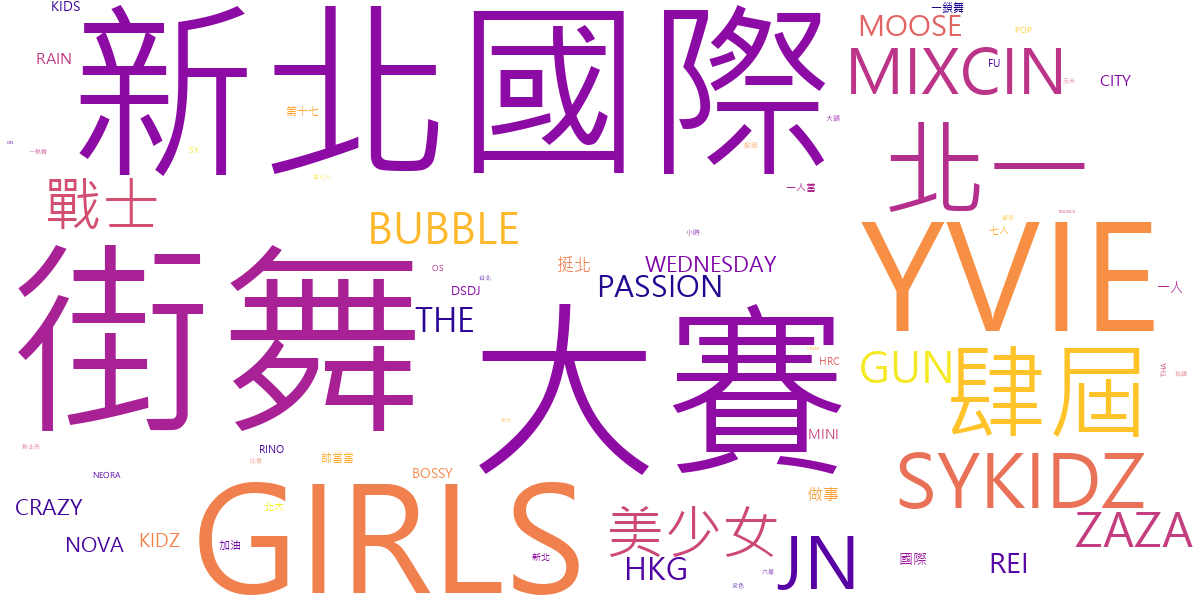
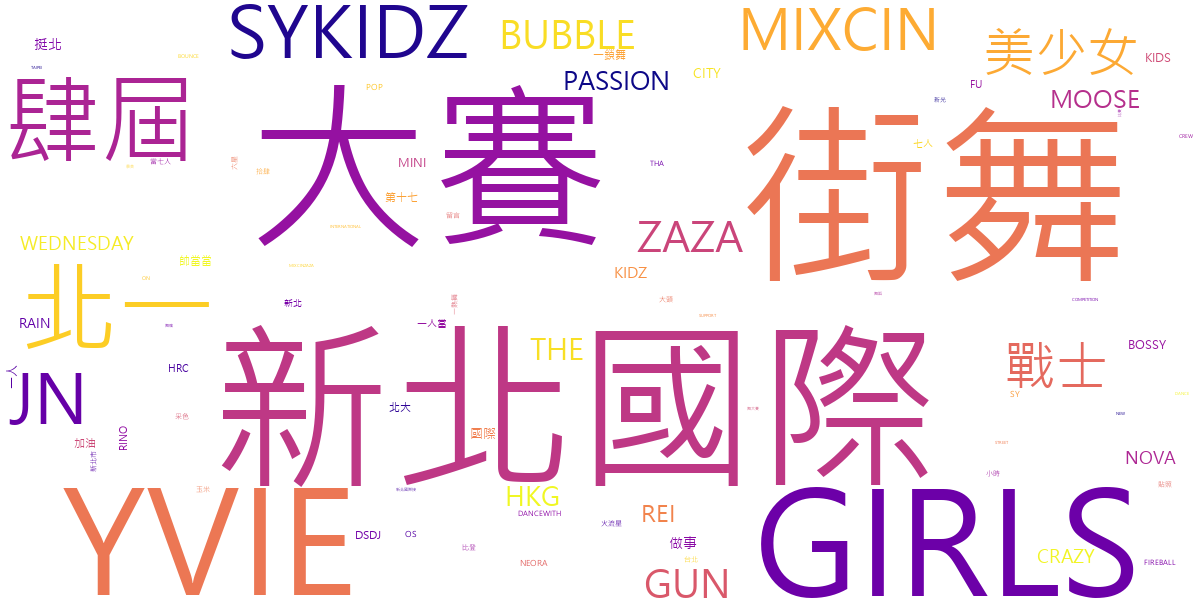
Refresh Pages report with comments through 2026-07-26 07:00.

diff --git a/docs/index.html b/docs/index.html
@@ -11,11 +11,11 @@
 <main class="container pb-5">
  <h2 class="h4 mb-3">基本統計</h2><div class="row g-3 mb-4">
  
- <div class="col-6 col-lg-3"><div class="card p-3"><small class="text-muted">總留言數</small><strong class="fs-3">152460</strong></div></div>
- <div class="col-6 col-lg-3"><div class="card p-3"><small class="text-muted">唯一留言者</small><strong class="fs-3">1239</strong></div></div>
- <div class="col-6 col-lg-3"><div class="card p-3"><small class="text-muted">平均留言長度</small><strong class="fs-3">25.18</strong></div></div>
- <div class="col-6 col-lg-3"><div class="card p-3"><small class="text-muted">應援留言數</small><strong class="fs-3">152580</strong></div></div>
- </div><p>留言最多的人：<strong>hsinhuachung</strong>｜應援隊伍數：<strong>78</strong></p>
+ <div class="col-6 col-lg-3"><div class="card p-3"><small class="text-muted">總留言數</small><strong class="fs-3">179474</strong></div></div>
+ <div class="col-6 col-lg-3"><div class="card p-3"><small class="text-muted">唯一留言者</small><strong class="fs-3">1303</strong></div></div>
+ <div class="col-6 col-lg-3"><div class="card p-3"><small class="text-muted">平均留言長度</small><strong class="fs-3">25.3</strong></div></div>
+ <div class="col-6 col-lg-3"><div class="card p-3"><small class="text-muted">應援留言數</small><strong class="fs-3">179588</strong></div></div>
+ </div><p>留言最多的人：<strong>y.v_amy</strong>｜應援隊伍數：<strong>90</strong></p>
 
  <div class="row g-4 mb-4">
   <div class="col-12 col-lg-6"><div class="card p-3"><h2 class="h5">應援隊伍排行</h2><img class="chart" src="assets/team_votes.png" alt="應援隊伍排行"></div></div>
@@ -23,8 +23,8 @@
  </div>
 
  <div class="row g-4 mb-4">
-  <div class="col-12 col-lg-6"><div class="card p-3"><h2 class="h5">Top 20 應援隊伍</h2><table class="table"><thead><tr><th>隊伍</th><th>票數</th></tr></thead><tbody><tr><td>YVIE GIRLS</td><td>76607</td></tr><tr><td>北一街舞貳拾肆屆</td><td>33862</td></tr><tr><td>SYKIDZ JN</td><td>12623</td></tr><tr><td>美少女戰士</td><td>8352</td></tr><tr><td>MIXCIN ZAZA</td><td>4628</td></tr><tr><td>BUBBLE GUN</td><td>4019</td></tr><tr><td>THE MIXCIN</td><td>2030</td></tr><tr><td>HKG</td><td>1731</td></tr><tr><td>MIXCIN PASSION</td><td>1585</td></tr><tr><td>MOOSE</td><td>1486</td></tr><tr><td>SYKIDZ REI</td><td>1245</td></tr><tr><td>CRAZY WEDNESDAY</td><td>783</td></tr><tr><td>MIXCIN NOVA</td><td>456</td></tr><tr><td>RAIN CITY KIDZ</td><td>432</td></tr><tr><td>MIXCIN BOSSY</td><td>300</td></tr><tr><td>MINI DSDJ</td><td>275</td></tr><tr><td>北一鎖舞第十七屆</td><td>236</td></tr><tr><td>MIXCIN NOVA加油</td><td>227</td></tr><tr><td>北一 街舞貳拾肆屆</td><td>193</td></tr><tr><td>北ㄧ街舞貳拾肆屆</td><td>177</td></tr></tbody></table></div></div>
-  <div class="col-12 col-lg-6"><div class="card p-3"><h2 class="h5">Top 20 留言者</h2><table class="table"><tbody><tr><td>hsinhuachung</td><td>16000</td></tr><tr><td>y.v_amy</td><td>13418</td></tr><tr><td>chenchenlinger</td><td>8793</td></tr><tr><td>fu.rino</td><td>6306</td></tr><tr><td>06.angle_</td><td>5566</td></tr><tr><td>cardanfor</td><td>5256</td></tr><tr><td>luvqi57</td><td>4865</td></tr><tr><td>yachun62</td><td>4861</td></tr><tr><td>cwh224</td><td>4676</td></tr><tr><td>y.v_effy</td><td>4650</td></tr><tr><td>red_winnie</td><td>3721</td></tr><tr><td>jone4289</td><td>2888</td></tr><tr><td>y.v_alicialee</td><td>2764</td></tr><tr><td>w._.yiyj</td><td>2332</td></tr><tr><td>abrokenhouse701</td><td>2118</td></tr><tr><td>y.v_fifi</td><td>1561</td></tr><tr><td>tongjing.chen</td><td>1505</td></tr><tr><td>visa_4289</td><td>1505</td></tr><tr><td>327n_atasha</td><td>1491</td></tr><tr><td>meow_meow_meow_iii</td><td>1441</td></tr></tbody></table></div></div>
+  <div class="col-12 col-lg-6"><div class="card p-3"><h2 class="h5">Top 20 應援隊伍</h2><table class="table"><thead><tr><th>隊伍</th><th>票數</th></tr></thead><tbody><tr><td>YVIE GIRLS</td><td>98878</td></tr><tr><td>北一街舞貳拾肆屆</td><td>36230</td></tr><tr><td>SYKIDZ JN</td><td>14843</td></tr><tr><td>美少女戰士</td><td>8352</td></tr><tr><td>MIXCIN ZAZA</td><td>4628</td></tr><tr><td>BUBBLE GUN</td><td>4024</td></tr><tr><td>THE MIXCIN</td><td>2081</td></tr><tr><td>HKG</td><td>1731</td></tr><tr><td>MIXCIN PASSION</td><td>1589</td></tr><tr><td>MOOSE</td><td>1486</td></tr><tr><td>SYKIDZ REI</td><td>1247</td></tr><tr><td>CRAZY WEDNESDAY</td><td>783</td></tr><tr><td>MIXCIN NOVA</td><td>456</td></tr><tr><td>RAIN CITY KIDZ</td><td>432</td></tr><tr><td>MIXCIN BOSSY</td><td>308</td></tr><tr><td>MINI DSDJ</td><td>276</td></tr><tr><td>北一鎖舞第十七屆</td><td>236</td></tr><tr><td>MIXCIN NOVA加油</td><td>227</td></tr><tr><td>北一 街舞貳拾肆屆</td><td>193</td></tr><tr><td>北ㄧ街舞貳拾肆屆</td><td>177</td></tr></tbody></table></div></div>
+  <div class="col-12 col-lg-6"><div class="card p-3"><h2 class="h5">Top 20 留言者</h2><table class="table"><tbody><tr><td>y.v_amy</td><td>18802</td></tr><tr><td>hsinhuachung</td><td>18752</td></tr><tr><td>chenchenlinger</td><td>15096</td></tr><tr><td>fu.rino</td><td>9657</td></tr><tr><td>06.angle_</td><td>6114</td></tr><tr><td>cardanfor</td><td>5897</td></tr><tr><td>red_winnie</td><td>5867</td></tr><tr><td>luvqi57</td><td>5083</td></tr><tr><td>yachun62</td><td>4861</td></tr><tr><td>y.v_effy</td><td>4743</td></tr><tr><td>cwh224</td><td>4676</td></tr><tr><td>jone4289</td><td>3580</td></tr><tr><td>visa_4289</td><td>2863</td></tr><tr><td>y.v_alicialee</td><td>2764</td></tr><tr><td>w._.yiyj</td><td>2332</td></tr><tr><td>abrokenhouse701</td><td>2118</td></tr><tr><td>y.v_fifi</td><td>1895</td></tr><tr><td>theyreeeeeasshole</td><td>1558</td></tr><tr><td>yyachuan</td><td>1538</td></tr><tr><td>tongjing.chen</td><td>1505</td></tr></tbody></table></div></div>
  </div>
 
  <div class="row g-4 mb-4">
@@ -42,6 +42,6 @@
  </div>
 
  <div class="row g-4">
-  <div class="col-12"><div class="card p-3"><h2 class="h5">重複留言（前 20 筆）</h2><table class="table"><thead><tr><th>類型</th><th>留言</th><th>說明</th><th>相似度</th></tr></thead><tbody><tr><td>exact</td><td>2026新北國際街舞大賽 我挺YVIE GIRLS!</td><td>y.v_amy×13386, hsinhuachung×9708, chenchenlinger×8788, y.v_alicialee×2362, fu.rino×2062</td><td>1.0</td></tr><tr><td>exact</td><td>2026新北國際街舞大賽 我挺YVIE GIRLS！</td><td>yachun62×4826, y.v_effy×4590, hsinhuachung×3358, jone4289×2859, 327n_atasha×1490</td><td>1.0</td></tr><tr><td>exact</td><td>2026新北國際街舞大賽，我挺SYKIDZ REI ❤</td><td>feishan33__×2</td><td>1.0</td></tr><tr><td>exact</td><td>2026新北國際街舞大賽 我挺北一街舞貳拾肆屆！</td><td>06.angle_×5536, luvqi57×4851, abrokenhouse701×2093, tongjing.chen×1504, meow_meow_meow_iii×1414</td><td>1.0</td></tr><tr><td>exact</td><td>2026新北國際街舞大賽 我挺北一街舞貳拾肆屆！2026新北國際街舞大賽 我挺北一街舞貳拾肆屆！</td><td>73zs._×33, meow_meow_meow_iii×23, hardto.choose×15, abrokenhouse701×9, eternity_0810_×6</td><td>1.0</td></tr><tr><td>exact</td><td>2026新北國際街舞大賽 我挺北一街舞貳拾肆屆���</td><td>06.angle_×3</td><td>1.0</td></tr><tr><td>exact</td><td>2026新北國際街舞大賽 我挺SYKIDZ JN</td><td>red_winnie×1670, zaq._.1212×290, _12nnnnn_×124, lr._.02_23×83, sa._.0212_×83</td><td>1.0</td></tr><tr><td>exact</td><td>2026新北國際街舞大賽 我挺YVIE GIRLS</td><td>cardanfor×5238, hsinhuachung×1657, y.v_fifi×1339, y.v_alicialee×56, gwc._.0904×39</td><td>1.0</td></tr><tr><td>exact</td><td>2026新北國際街舞大賽 我挺SYKIDZ JN!</td><td>_1cnn.cky×573, luo_zin_ing×325, 77zzzzzz__×168, yyc_.51×160, mimmy.syk×114</td><td>1.0</td></tr><tr><td>exact</td><td>2026新北國際街舞大賽 我挺SYKIDZ REI!</td><td>o.627._.yo×3</td><td>1.0</td></tr><tr><td>exact</td><td>2026新北國際街舞大賽 我挺SYKIDZ REI</td><td>_im.ys2×267, shiao_423×184, _7kzzc×123, celia__xin×77, oogeshon×75</td><td>1.0</td></tr><tr><td>exact</td><td>2026新北國際街舞大賽 我挺YVIE GIRLS! 2026新北國際街舞大賽 我挺YVIE GIRLS!</td><td>hsinhuachung×40</td><td>1.0</td></tr><tr><td>exact</td><td>2026新北國際街舞大賽我挺MIXCIN ZAZA🐆🔱</td><td>candicekang83×248, 09._hanhan×92, 09._.sihan×88, _xin.0604×46, 0824eva_15y×31</td><td>1.0</td></tr><tr><td>exact</td><td>2026新北國際街舞大賽我挺MIXCIN ZAZA🐆</td><td>glitch_06_13×913, hsu_.1129×26, smal.l_jus×21, yshinun×16, cutie.yu_2222×5</td><td>1.0</td></tr><tr><td>exact</td><td>2026 新北國際街舞大賽 我挺 MIXCIN ZAZA❤🔥</td><td>clds._.4683×137</td><td>1.0</td></tr><tr><td>exact</td><td>2026新北國際街舞大賽 我挺 必比登六星⭐</td><td>lynnkang46×20</td><td>1.0</td></tr><tr><td>exact</td><td>2026 新北國際街舞大賽 我挺 MIXCIN ZAZA</td><td>clds._.4683×7</td><td>1.0</td></tr><tr><td>exact</td><td>2026新北國際街舞大賽 我挺THE MIXCIN!!</td><td>tanya_and_cindy_mom×278, chloe0311_×35</td><td>1.0</td></tr><tr><td>exact</td><td>2026 新北國際街舞大賽 我挺 必比登六星🌟</td><td>papa.0401×23, clds._.4683×10, lynnkang46×2</td><td>1.0</td></tr><tr><td>exact</td><td>2026 新北國際街舞大賽 我挺 MIXCIN ZAZA😍🐆</td><td>papa.0401×59</td><td>1.0</td></tr></tbody></table></div></div>
+  <div class="col-12"><div class="card p-3"><h2 class="h5">重複留言（前 20 筆）</h2><table class="table"><thead><tr><th>類型</th><th>留言</th><th>說明</th><th>相似度</th></tr></thead><tbody><tr><td>exact</td><td>2026新北國際街舞大賽 我挺YVIE GIRLS!</td><td>y.v_amy×18770, chenchenlinger×15086, hsinhuachung×11938, y.v_alicialee×2362, fu.rino×2062</td><td>1.0</td></tr><tr><td>exact</td><td>2026新北國際街舞大賽 我挺YVIE GIRLS！</td><td>yachun62×4826, y.v_effy×4683, hsinhuachung×3878, jone4289×3551, 327n_atasha×1490</td><td>1.0</td></tr><tr><td>exact</td><td>2026新北國際街舞大賽，我挺SYKIDZ REI ❤</td><td>feishan33__×4</td><td>1.0</td></tr><tr><td>exact</td><td>2026新北國際街舞大賽 我挺北一街舞貳拾肆屆！</td><td>06.angle_×6084, luvqi57×5069, abrokenhouse701×2093, theyreeeeeasshole×1558, tongjing.chen×1504</td><td>1.0</td></tr><tr><td>exact</td><td>2026新北國際街舞大賽 我挺北一街舞貳拾肆屆！2026新北國際街舞大賽 我挺北一街舞貳拾肆屆！</td><td>73zs._×33, meow_meow_meow_iii×23, hardto.choose×15, abrokenhouse701×9, eternity_0810_×6</td><td>1.0</td></tr><tr><td>exact</td><td>2026新北國際街舞大賽 我挺北一街舞貳拾肆屆���</td><td>06.angle_×3</td><td>1.0</td></tr><tr><td>exact</td><td>2026新北國際街舞大賽 我挺SYKIDZ JN</td><td>red_winnie×3815, zaq._.1212×290, _12nnnnn_×124, lr._.02_23×83, sa._.0212_×83</td><td>1.0</td></tr><tr><td>exact</td><td>2026新北國際街舞大賽 我挺YVIE GIRLS</td><td>cardanfor×5877, y.v_fifi×1673, hsinhuachung×1657, y.v_alicialee×56, gwc._.0904×39</td><td>1.0</td></tr><tr><td>exact</td><td>2026新北國際街舞大賽 我挺SYKIDZ JN!</td><td>_1cnn.cky×573, luo_zin_ing×325, 77zzzzzz__×193, yyc_.51×160, mimmy.syk×114</td><td>1.0</td></tr><tr><td>exact</td><td>2026新北國際街舞大賽 我挺SYKIDZ REI!</td><td>o.627._.yo×3</td><td>1.0</td></tr><tr><td>exact</td><td>2026新北國際街舞大賽 我挺SYKIDZ REI</td><td>_im.ys2×267, shiao_423×184, _7kzzc×123, celia__xin×77, oogeshon×75</td><td>1.0</td></tr><tr><td>exact</td><td>2026新北國際街舞大賽 我挺YVIE GIRLS! 2026新北國際街舞大賽 我挺YVIE GIRLS!</td><td>hsinhuachung×40</td><td>1.0</td></tr><tr><td>exact</td><td>2026新北國際街舞大賽我挺MIXCIN ZAZA🐆🔱</td><td>candicekang83×248, 09._hanhan×92, 09._.sihan×88, _xin.0604×46, 0824eva_15y×31</td><td>1.0</td></tr><tr><td>exact</td><td>2026新北國際街舞大賽我挺MIXCIN ZAZA🐆</td><td>glitch_06_13×913, hsu_.1129×26, smal.l_jus×21, yshinun×16, cutie.yu_2222×5</td><td>1.0</td></tr><tr><td>exact</td><td>2026 新北國際街舞大賽 我挺 MIXCIN ZAZA❤🔥</td><td>clds._.4683×137</td><td>1.0</td></tr><tr><td>exact</td><td>2026新北國際街舞大賽 我挺 必比登六星⭐</td><td>lynnkang46×20</td><td>1.0</td></tr><tr><td>exact</td><td>2026 新北國際街舞大賽 我挺 MIXCIN ZAZA</td><td>clds._.4683×7</td><td>1.0</td></tr><tr><td>exact</td><td>2026新北國際街舞大賽 我挺THE MIXCIN!!</td><td>tanya_and_cindy_mom×329, chloe0311_×35</td><td>1.0</td></tr><tr><td>exact</td><td>2026 新北國際街舞大賽 我挺 必比登六星🌟</td><td>papa.0401×23, clds._.4683×10, lynnkang46×2</td><td>1.0</td></tr><tr><td>exact</td><td>2026 新北國際街舞大賽 我挺 MIXCIN ZAZA😍🐆</td><td>papa.0401×59</td><td>1.0</td></tr></tbody></table></div></div>
  </div>
 </main></body></html>
